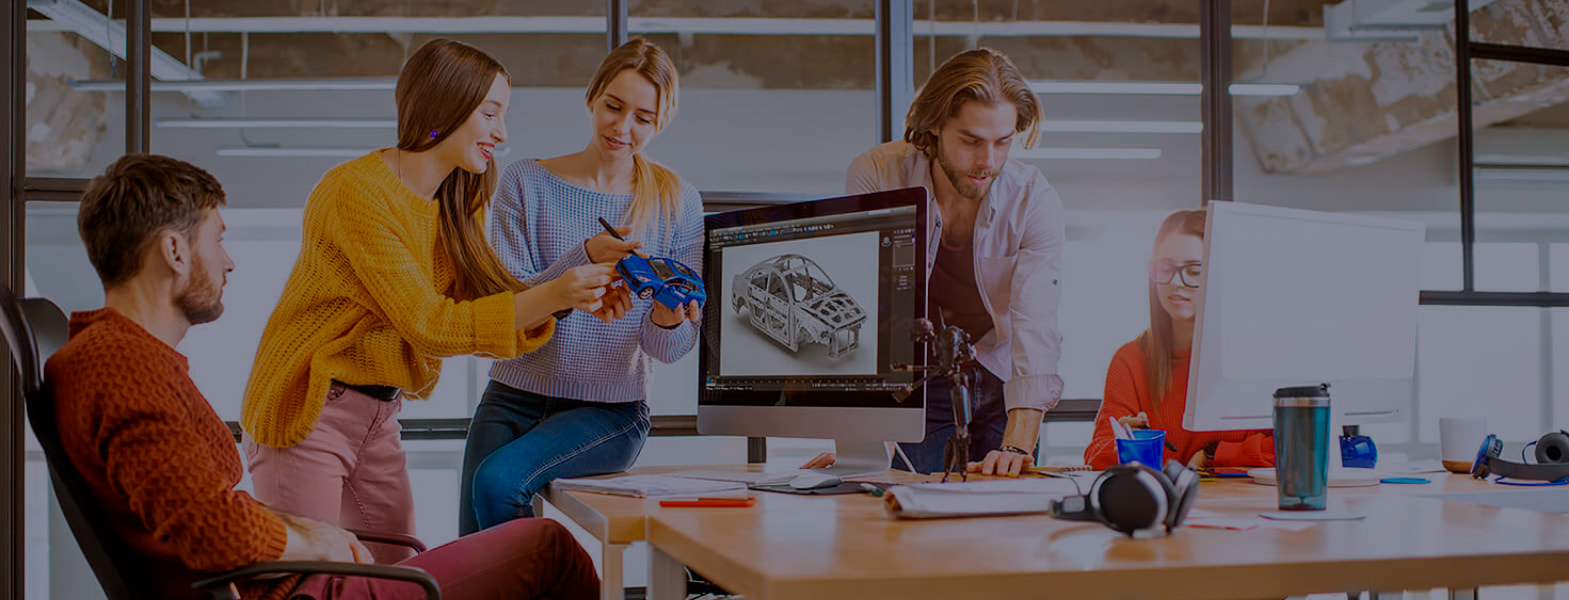
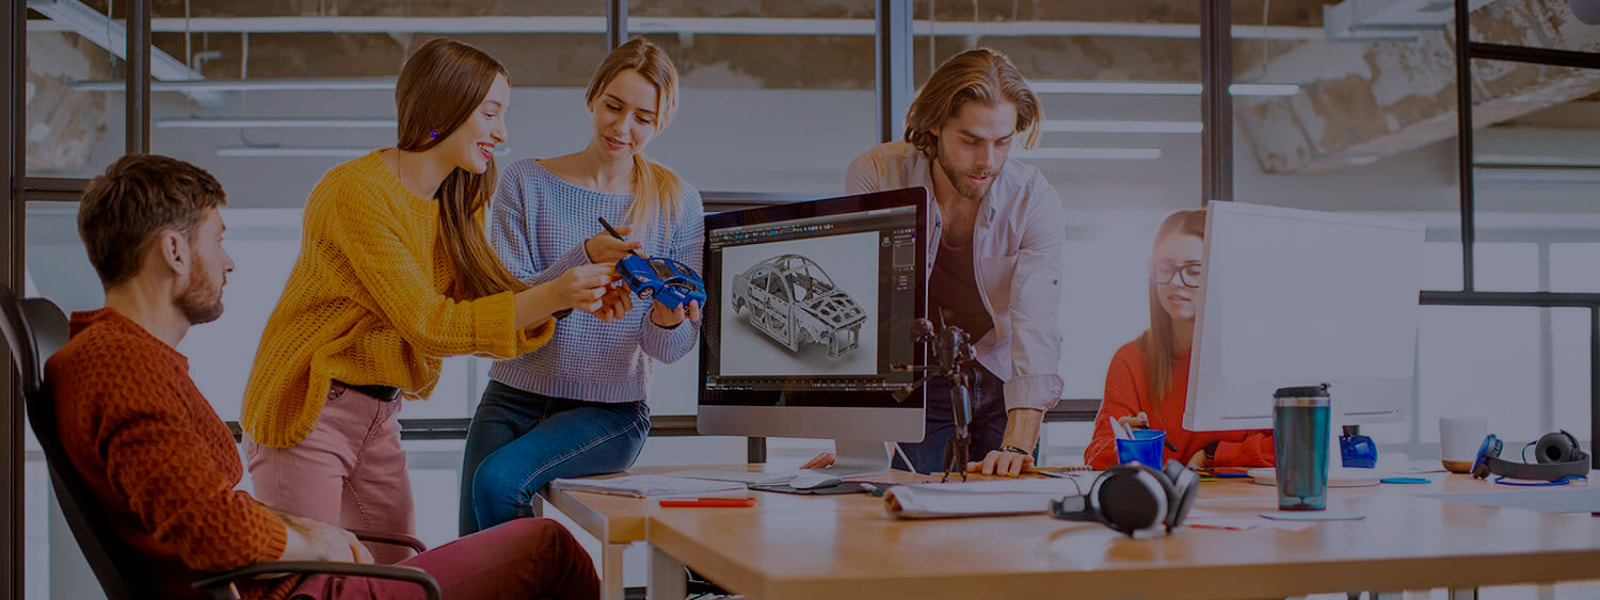
Summary

diff --git a/css/styles.css b/css/styles.css
@@ -254,9 +254,13 @@ img {
 ===================================
 */
 .hero {
-  background-image: url(../images/hero/bg-hero.jpg);
+  max-width: 1600px;
+  margin-left: auto;
+  margin-right: auto;
   background-color: var(--footer-bg-color);
+  background-image: url(../images/hero/bg-hero.jpg);
   background-repeat: no-repeat;
+  background-position: center;
   padding-top: 200px;
   padding-bottom: 200px;
 }
